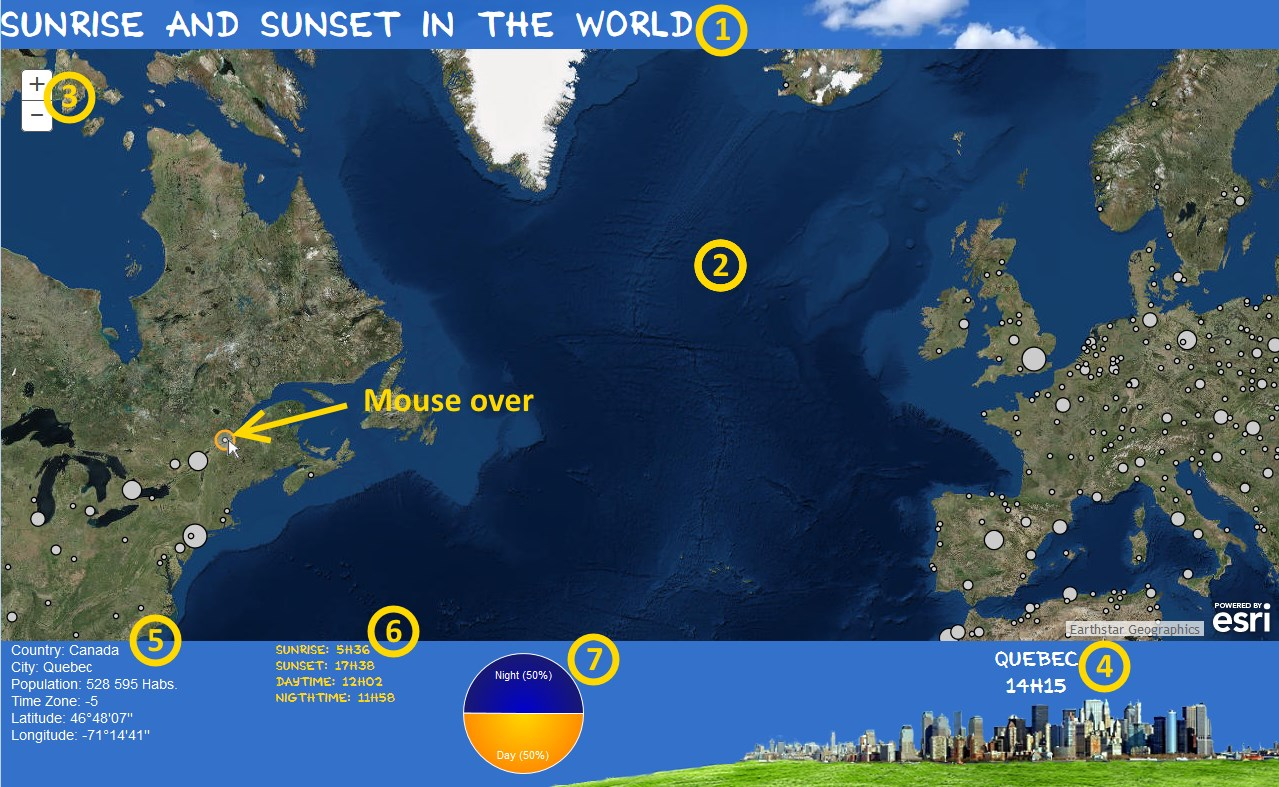
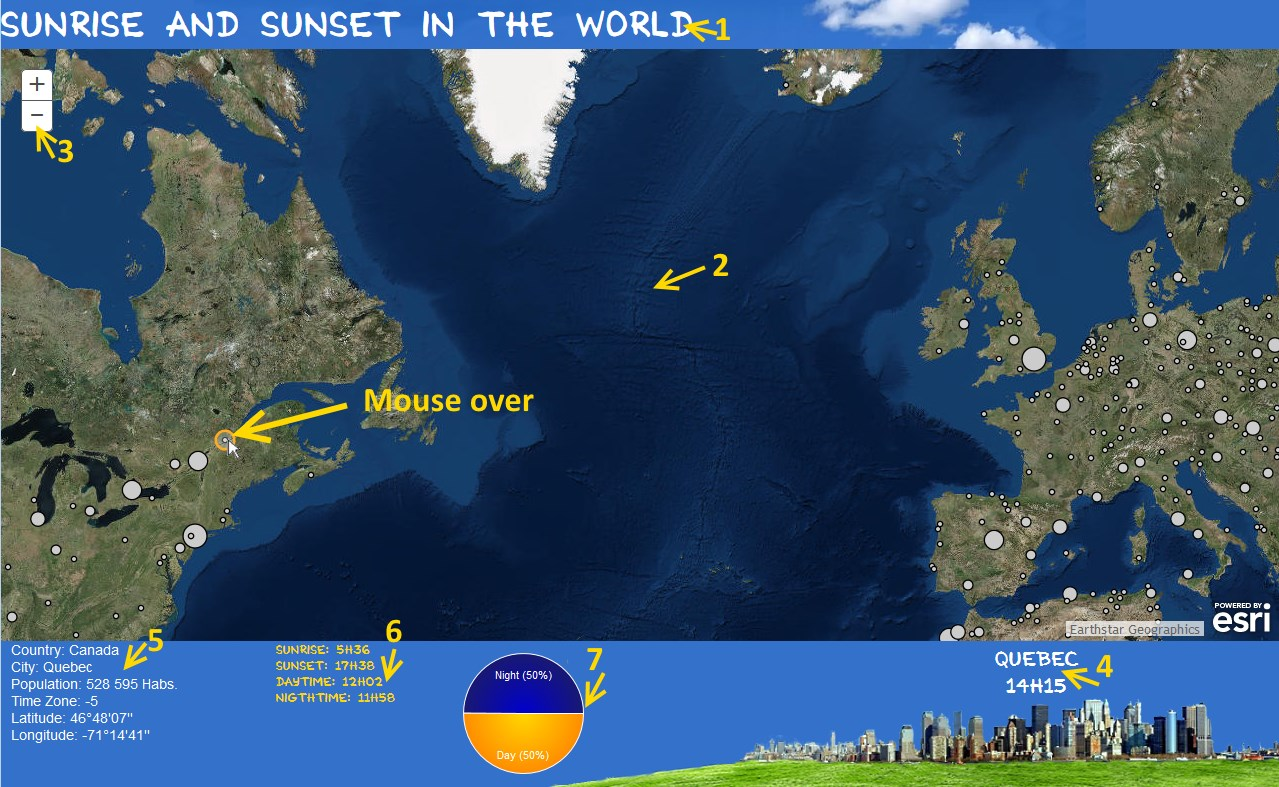
readme

diff --git a/README.md b/README.md
@@ -7,7 +7,7 @@
  
 #Overview #
 
-You only need to put your mouse over a city (grey circles on the map) to have his information. The selected city will be circled by an orange circle. The information will appear at the bottom. 
+You only need to put your mouse over a city (grey circles on the map) to have information. The selected city will be circled in orange. The information will then appear at the bottom of the screen. 
 
 > Clic on the image below for a larger view.
 
@@ -15,31 +15,32 @@ You only need to put your mouse over a city (grey circles on the map) to have hi
 
 
 ##In details:##
-*(The numbers are associated with the yellow one on the image above)*
+*(The numbers are associated with the numbers above)*
 
 1. Title of the map
 2. The Map
 3. Zoom in and Zoom out tool (You can also use the mouse's roller or the shift key and drag with the mouse)
-4. Name of the city where your mouse icon is over and his time now.
+4. Name of the city where your mouse icon is over and actual time.
 5. More details about the place selected: Country, city name, population, time zone, latitude and longitude (in degres)
-6. Time of Sunrise, Sunset, the during time of the day and the night for the selected city.
-7. A pie chart let you see graphially the duration of the day and night with %. This pie chart is animated when you pass your mous icon hover. This will alose give you the day time and night time in hours in a popup. 
-8. The arrow show you how the selected city will appear when you will put your mouse over it. 
+6. Sunrise and Sunset time and daylight hours for the selected city.
+7. The pie chart represent day length and night length in %. This pie chart is animated when you pass your mouse icon over (pop up not showed) and gives you the daylight and night time length in hours. 
+
+The arrow show you how the selected city will appear when you will put your mouse over it. 
 
 
 ## How I have done that ##
 
 I have created a feature service with ArcGIS Online. This service include many fields like the info at the number 5 on the map. I used the population field to create a symbology with different circles sizes. I selected the imagery of the world as the background.
 
-After that, I created a JavaScript file to hold my map and my basic fonctions. This is where my top and bottom are set and also my pie chart. See [here](http://membre.oricom.ca/publiccouture/sunrisesunset/js/map.js)
+After that, I created a JavaScript file to hold my map and my basic fonctions. This is where the header and footer are set and also the pie chart. See [here](http://membre.oricom.ca/publiccouture/sunrisesunset/js/map.js)
 
-Plus, I created 1 Dojo object to contains the mathematical formulas to calculate the rotation and the angle of the earth. With this, the app can calculate the sunrise and sunset for each city. See [here](http://membre.oricom.ca/publiccouture/sunrisesunset/js/sunrisesunset.js). 
+Plus, I created 1 Dojo object that contain the mathematical formulas. This is use to calculate the rotation and the angle of the earth for each day of the year. With this, the app can calculate the sunrise and sunset for each city. See [here](http://membre.oricom.ca/publiccouture/sunrisesunset/js/sunrisesunset.js). 
 
-Another Dojo object has been created to hold some resusable functions. By linking this object in another project, I will be able to reeuse it (like the first dojo object created). See [here](http://membre.oricom.ca/publiccouture/sunrisesunset/js/coordinatesTools.js)
+Another Dojo object has been created to hold some reusable functions. By linking this object with another project, I will be able to reusable it (like the first dojo object created). See [here](http://membre.oricom.ca/publiccouture/sunrisesunset/js/coordinatesTools.js)
 
 To have a nice look of mixing color togheter, I created my own theme in dojo format. See [here](http://membre.oricom.ca/publiccouture/sunrisesunset/js/ephemeridesTheme.js)
 
-A HTML and CSS file drive all this togheter
+A HTML and CSS file drive all this together
 
 Enjoy !
 
@@ -47,6 +48,4 @@ Enjoy !
 
 ----------
 
-**The time is in standard format, not in daylight saving time.
- 
-**I do a lot of search of on the web to have the sunrise and sunset formula. 
+*The time is in standard format, I did not include the changing time (DST).
